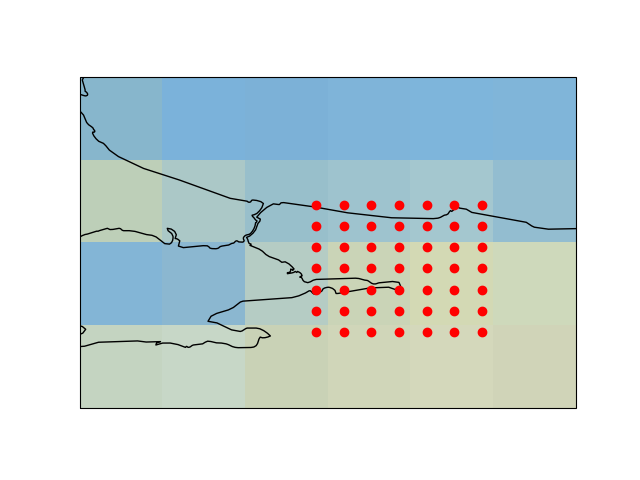
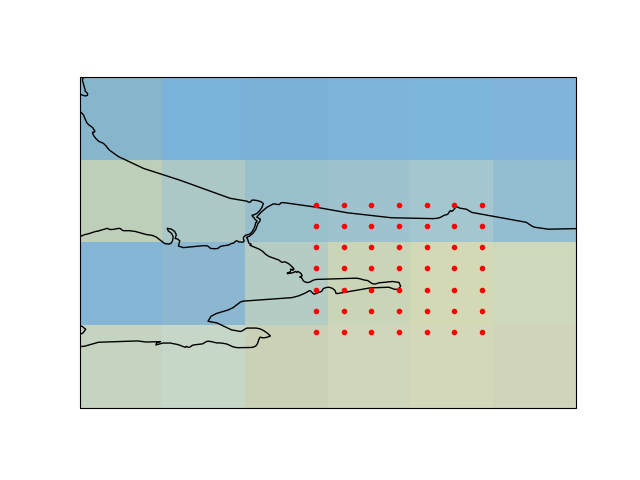
-

diff --git a/sk/2020/02/haritalamak.md b/sk/2020/02/haritalamak.md
@@ -121,8 +121,7 @@ ax = fig.add_subplot(1, 1, 1, projection=ccrs.PlateCarree())
 ax.set_global()
 ax.stock_img()
 ax.coastlines()
-ax.plot(lon, lat, 'r.', transform=ccrs.PlateCarree())
-ax.plot(xx.flatten(), yy.flatten(), 'ro', transform=ccrs.PlateCarree())
+ax.plot(xx.flatten(), yy.flatten(), 'r.', transform=ccrs.PlateCarree())
 ax.set_extent([28, 31, 40, 42])
 plt.savefig('har4.png')
 ```
